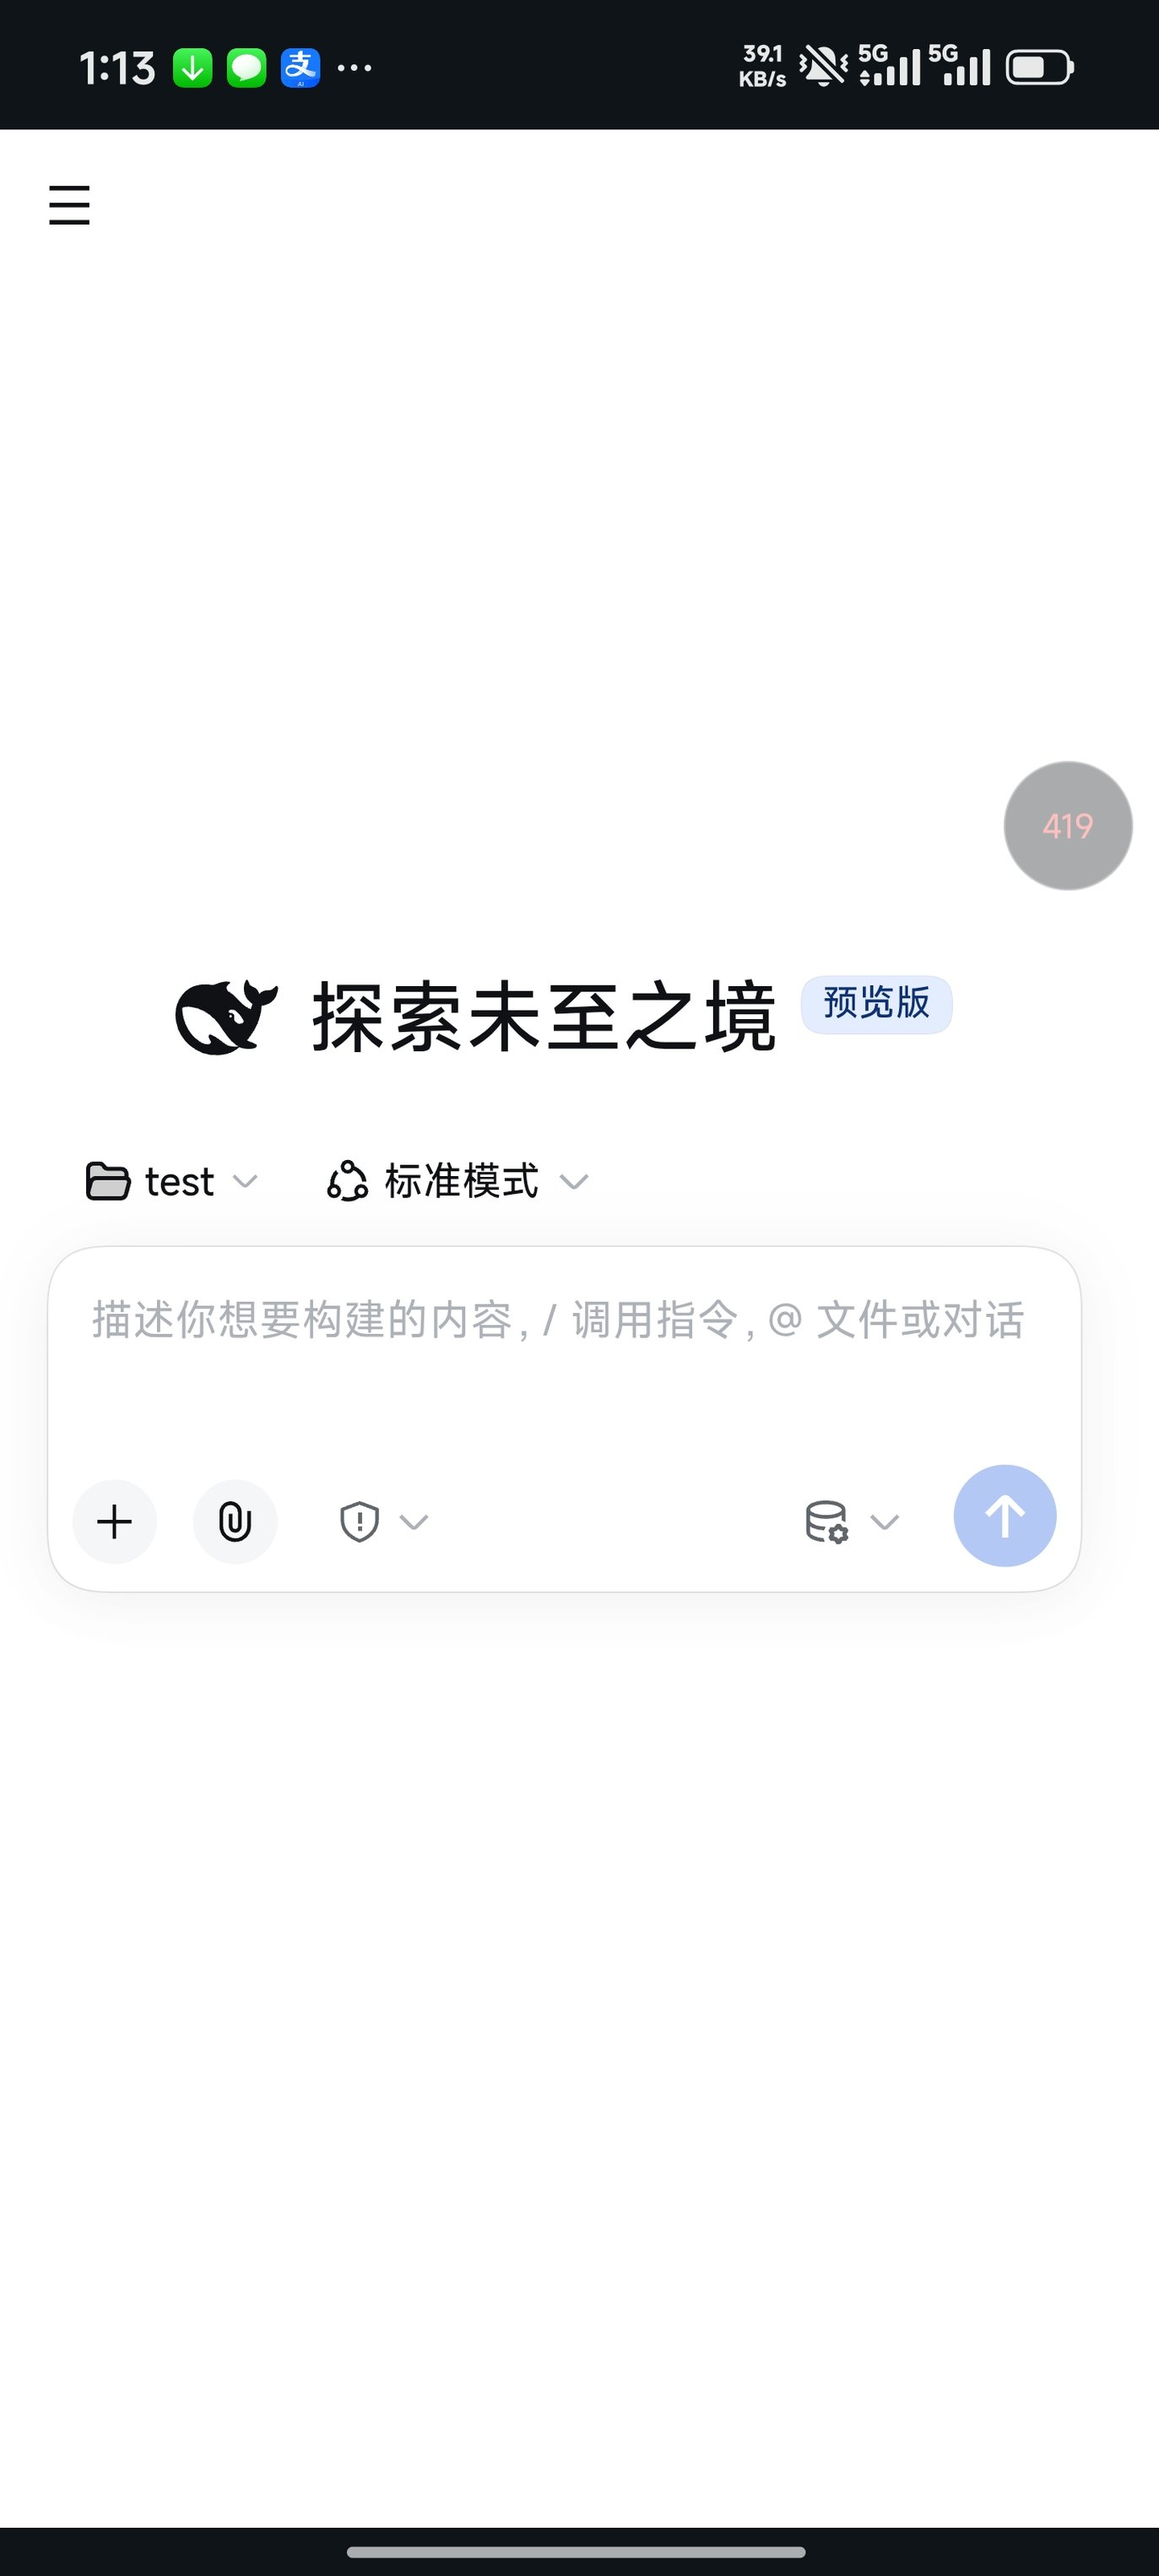
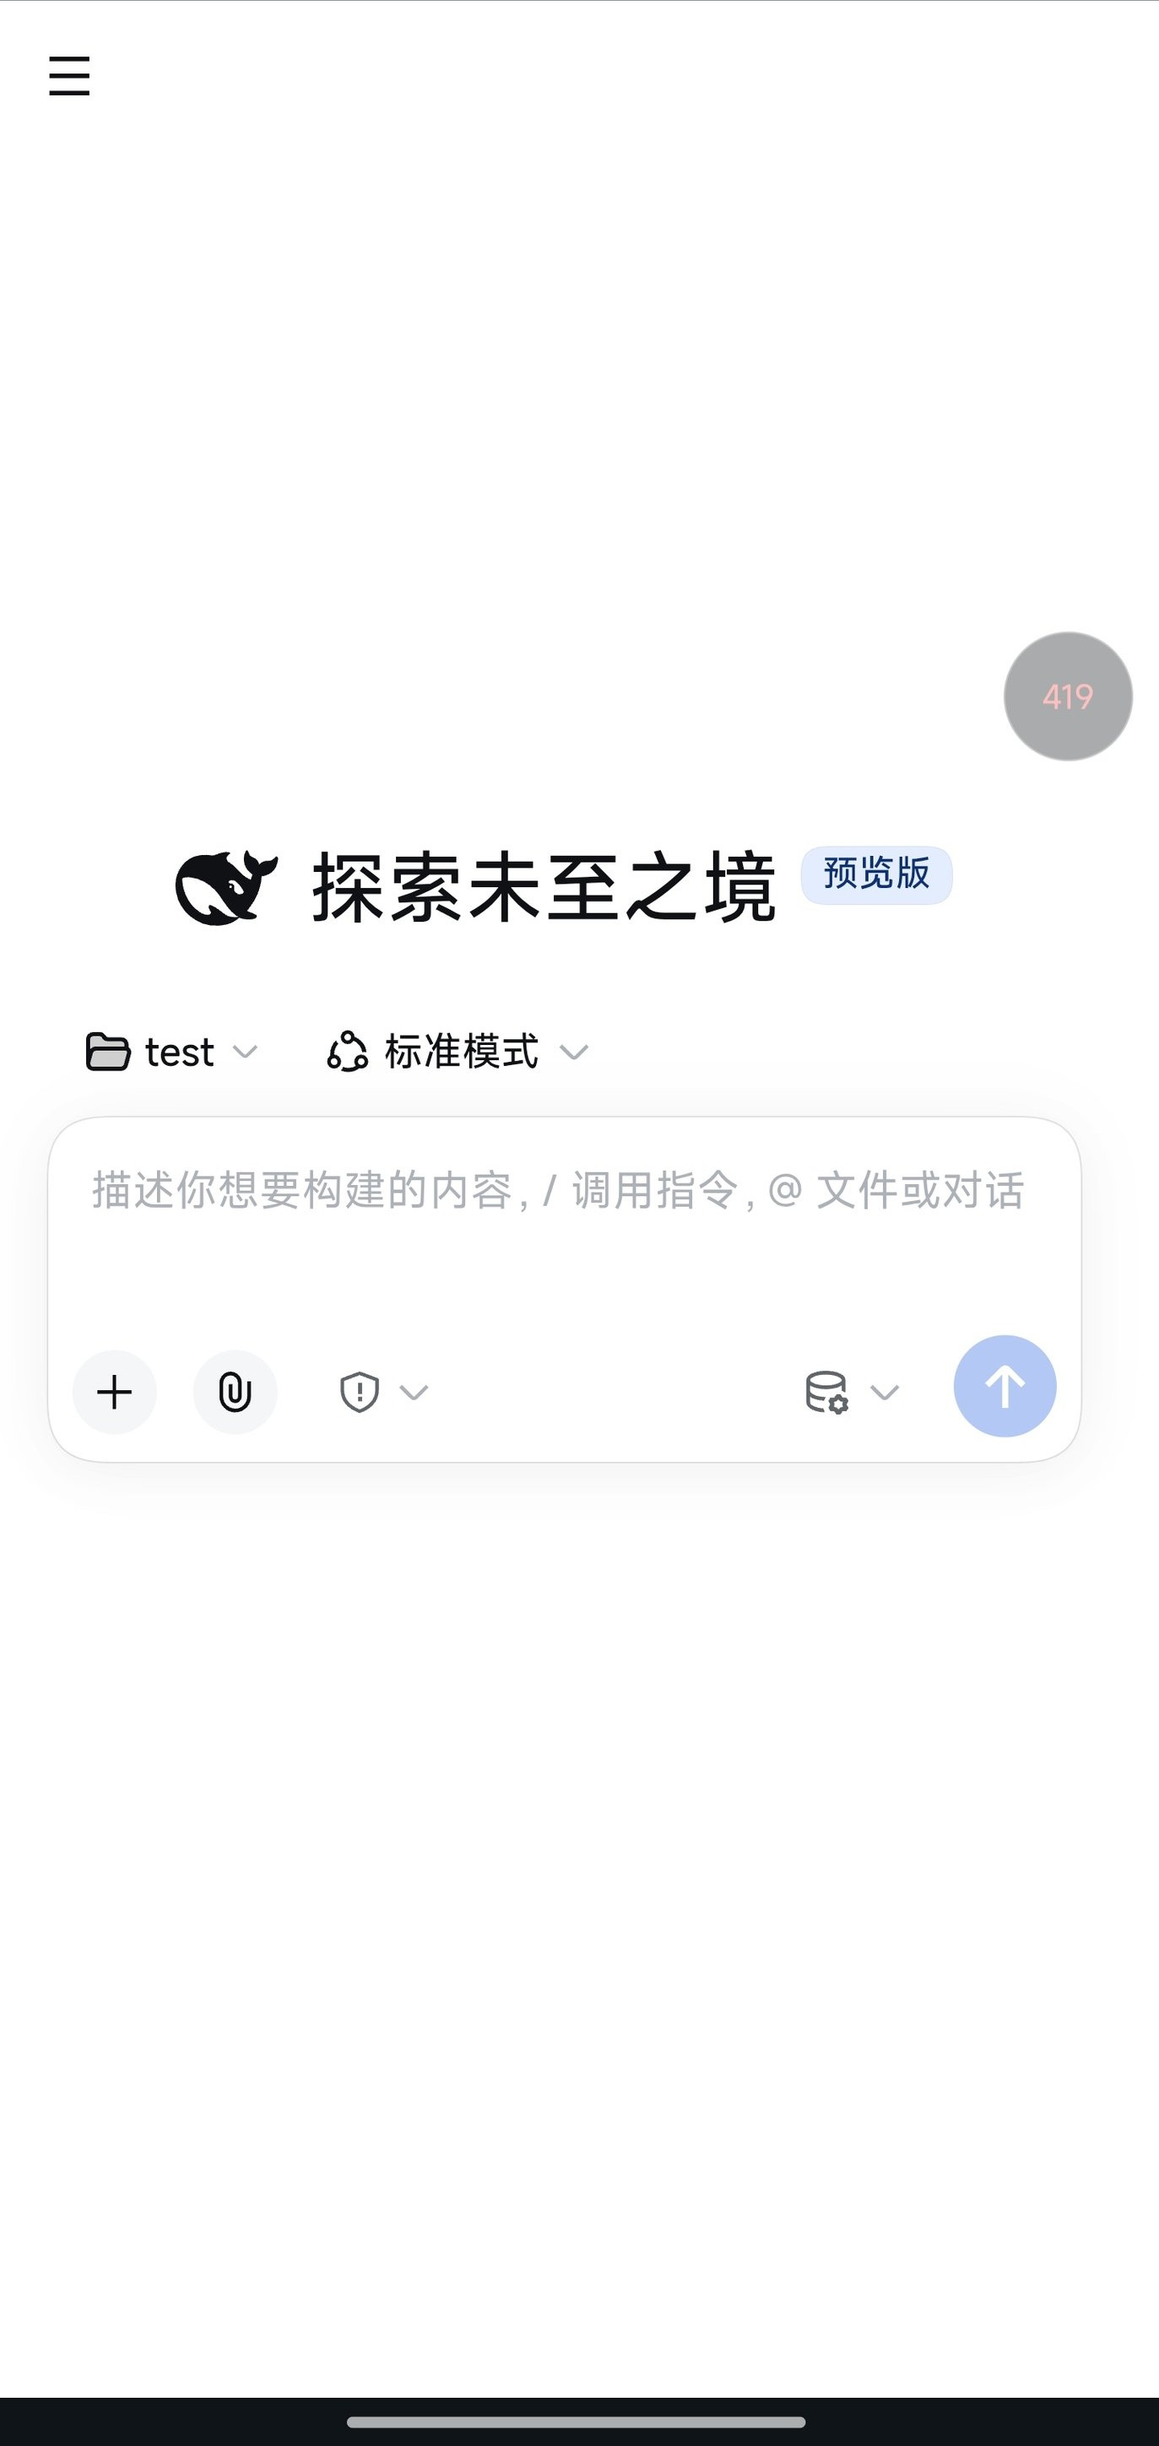
所有截图裁掉手机状态栏；新增 App 设置页与文件预览截图（域名 / 接入口令 / 本机用户名已打码）

diff --git a/README.md b/README.md
@@ -15,6 +15,15 @@
 界面右侧的圆球是**实时网络往返延迟**（绿 <150ms / 黄 <400ms / 红更慢）；点一下进 App 设置，长按刷新页面，可拖到任意位置并吸附边缘。
 深色 / 浅色既支持「跟随系统」（系统切深浅时实时跟着变），也支持按设备单独指定。
 
+### App 设置与文件浏览
+
+| 首次打开就是这一页（App 设置） | 文件浏览（DSH 自身的「文件」页） |
+| --- | --- |
+| ![App 设置](docs/app-settings.jpg) | ![文件预览](docs/app-files.jpg) |
+
+还没填地址时 App 直接停在设置页：**扫码连接**、**从相册里的二维码图片连接**、保持屏幕常亮、快捷操作（展开/收起会话列表、刷新页面、在系统浏览器中打开），底部是版本号与当前服务器地址。填好一次即长期使用，之后打开直达界面。
+右侧是 DSH 自带的文件浏览在手机上的样子——翻目录、看文件、改分辨率都不用换设备。
+
 ### 两处设置别混淆（这也是本项目的核心设计）
 
 | 设置 → 通用设置（**全局**） | 设置 → 手机端 →「仅本设备的显示」（**只影响这一台**） |
